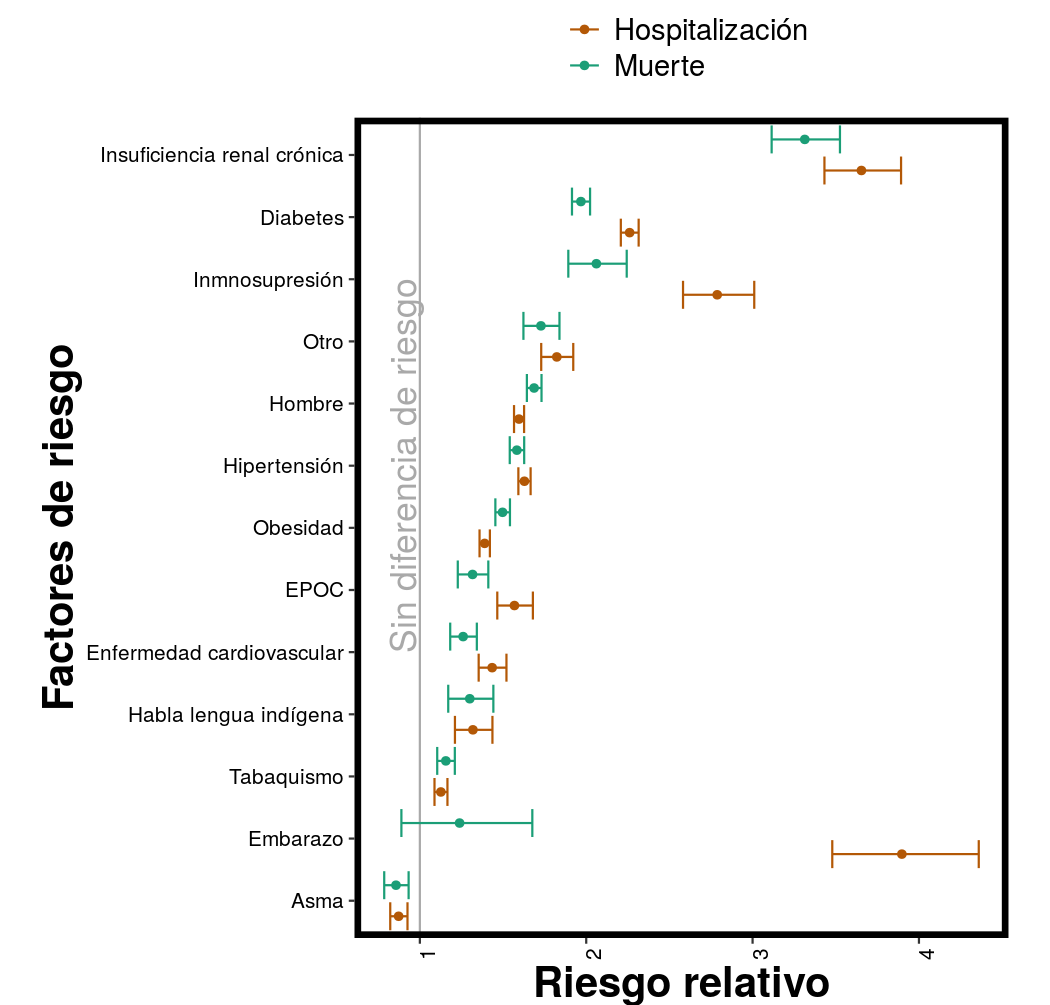
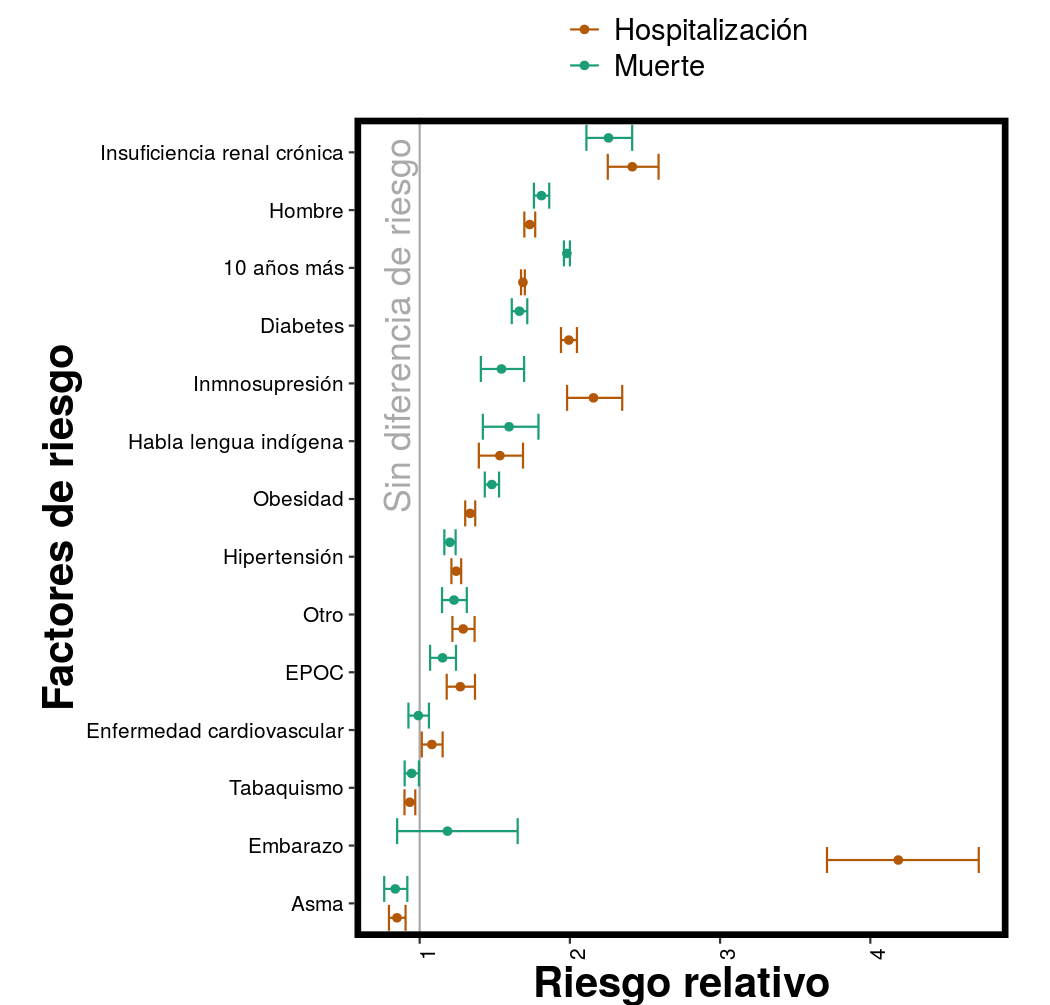
Actualizando riesgos relativos

diff --git a/clinicos/index.html b/clinicos/index.html
@@ -334,8 +334,9 @@
           <div class="col-12 col-md-6 my-auto my-auto">
             <h3>¿Quién está en riesgo?</h3>
             <p class="lead">
-              <p><strong>Todos estamos en riesgo</strong>. Para el 6 de mayo, 123 (14%) de las 857 mujeres, y 857 (25%) de los 1847 hombres que fallecieron por COVID-19 no tenían ninguno de los factores de riesgo reportados. Sin embargo, ciertos factores pueden hacer más probable que una persona contagiada desarrolle enfermedad grave.</p>
-<p>En México, podemos calcular el riesgo relativo de que pacientes con COVID-19 tengan que ser hospitalizados o terminen falleciendo por COVID-19. Una vez que descontamos el efecto de la edad, la insuficiencia renal crónica, diabetes, inmunosupresión, obesidad y enfermedad pulmonar obstructiva crónica (EPOC) son los mayores factores de riesgo. El asma no incrementa el riesgo, lo cual puede parecer raro pero hasta el momento <a href="https://www.aaaai.org/conditions-and-treatments/library/asthma-library/covid-asthma" target="_blank">no hay</a> <a href="https://time.com/5802423/coronvirus-asthma-high-risk/" target="_blank">evidencia</a> de que gente con asma tenga un mayor riesgo que los demás. Simplemente <strong>todos debemos extremar precauciones</strong>.</p>
+              <p><b>Todos estamos en riesgo</b>. Para el 10 de julio, se ha confirmado el fallecimiento por COVID-19 de 2387 mujeres (edad media de 60 años) y 6410 hombres (edad media de 59 años) para quienes no se reporta ningún otro factor de riesgo. Esto representa el 26% de los fallecimientos confirmados. Es posible que algunas de estas personas hayan tenido comorbilidades no detectadas, pero de todas formas estos números indican que el COVID-19 es una enfermedad peligrosa para todos.</p>
+<p>Sin embargo, hay condiciones demográficas, socioeconómicos y médicas que aumentan el riesgo para una persona con COVID-19. La gráfica muestra el riesgo relativo asociado con varios factores en México. Los resultados son similares a los de otros países: mayor edad, ser hombre, ser indígena, o padecer algunas enfermedades crónicas aumentan el riesgo por COVID-19.</p>
+<p>Los detalles para calcular estos estimados están <a href="https://github.com/coronamex/visualizando/blob/master/clinicos/riesgos_relativos.r" target="_blank">aquí</a>.</p>
             </p>
               
           </div>

diff --git a/etiquetas/clínicos/index.html b/etiquetas/clínicos/index.html
@@ -334,8 +334,9 @@
           <div class="col-12 col-md-6 my-auto my-auto">
             <h3>¿Quién está en riesgo?</h3>
             <p class="lead">
-              <p><strong>Todos estamos en riesgo</strong>. Para el 6 de mayo, 123 (14%) de las 857 mujeres, y 857 (25%) de los 1847 hombres que fallecieron por COVID-19 no tenían ninguno de los factores de riesgo reportados. Sin embargo, ciertos factores pueden hacer más probable que una persona contagiada desarrolle enfermedad grave.</p>
-<p>En México, podemos calcular el riesgo relativo de que pacientes con COVID-19 tengan que ser hospitalizados o terminen falleciendo por COVID-19. Una vez que descontamos el efecto de la edad, la insuficiencia renal crónica, diabetes, inmunosupresión, obesidad y enfermedad pulmonar obstructiva crónica (EPOC) son los mayores factores de riesgo. El asma no incrementa el riesgo, lo cual puede parecer raro pero hasta el momento <a href="https://www.aaaai.org/conditions-and-treatments/library/asthma-library/covid-asthma" target="_blank">no hay</a> <a href="https://time.com/5802423/coronvirus-asthma-high-risk/" target="_blank">evidencia</a> de que gente con asma tenga un mayor riesgo que los demás. Simplemente <strong>todos debemos extremar precauciones</strong>.</p>
+              <p><b>Todos estamos en riesgo</b>. Para el 10 de julio, se ha confirmado el fallecimiento por COVID-19 de 2387 mujeres (edad media de 60 años) y 6410 hombres (edad media de 59 años) para quienes no se reporta ningún otro factor de riesgo. Esto representa el 26% de los fallecimientos confirmados. Es posible que algunas de estas personas hayan tenido comorbilidades no detectadas, pero de todas formas estos números indican que el COVID-19 es una enfermedad peligrosa para todos.</p>
+<p>Sin embargo, hay condiciones demográficas, socioeconómicos y médicas que aumentan el riesgo para una persona con COVID-19. La gráfica muestra el riesgo relativo asociado con varios factores en México. Los resultados son similares a los de otros países: mayor edad, ser hombre, ser indígena, o padecer algunas enfermedades crónicas aumentan el riesgo por COVID-19.</p>
+<p>Los detalles para calcular estos estimados están <a href="https://github.com/coronamex/visualizando/blob/master/clinicos/riesgos_relativos.r" target="_blank">aquí</a>.</p>
             </p>
               
           </div>

diff --git a/etiquetas/estimado/index.html b/etiquetas/estimado/index.html
@@ -334,8 +334,9 @@
           <div class="col-12 col-md-6 my-auto my-auto">
             <h3>¿Quién está en riesgo?</h3>
             <p class="lead">
-              <p><strong>Todos estamos en riesgo</strong>. Para el 6 de mayo, 123 (14%) de las 857 mujeres, y 857 (25%) de los 1847 hombres que fallecieron por COVID-19 no tenían ninguno de los factores de riesgo reportados. Sin embargo, ciertos factores pueden hacer más probable que una persona contagiada desarrolle enfermedad grave.</p>
-<p>En México, podemos calcular el riesgo relativo de que pacientes con COVID-19 tengan que ser hospitalizados o terminen falleciendo por COVID-19. Una vez que descontamos el efecto de la edad, la insuficiencia renal crónica, diabetes, inmunosupresión, obesidad y enfermedad pulmonar obstructiva crónica (EPOC) son los mayores factores de riesgo. El asma no incrementa el riesgo, lo cual puede parecer raro pero hasta el momento <a href="https://www.aaaai.org/conditions-and-treatments/library/asthma-library/covid-asthma" target="_blank">no hay</a> <a href="https://time.com/5802423/coronvirus-asthma-high-risk/" target="_blank">evidencia</a> de que gente con asma tenga un mayor riesgo que los demás. Simplemente <strong>todos debemos extremar precauciones</strong>.</p>
+              <p><b>Todos estamos en riesgo</b>. Para el 10 de julio, se ha confirmado el fallecimiento por COVID-19 de 2387 mujeres (edad media de 60 años) y 6410 hombres (edad media de 59 años) para quienes no se reporta ningún otro factor de riesgo. Esto representa el 26% de los fallecimientos confirmados. Es posible que algunas de estas personas hayan tenido comorbilidades no detectadas, pero de todas formas estos números indican que el COVID-19 es una enfermedad peligrosa para todos.</p>
+<p>Sin embargo, hay condiciones demográficas, socioeconómicos y médicas que aumentan el riesgo para una persona con COVID-19. La gráfica muestra el riesgo relativo asociado con varios factores en México. Los resultados son similares a los de otros países: mayor edad, ser hombre, ser indígena, o padecer algunas enfermedades crónicas aumentan el riesgo por COVID-19.</p>
+<p>Los detalles para calcular estos estimados están <a href="https://github.com/coronamex/visualizando/blob/master/clinicos/riesgos_relativos.r" target="_blank">aquí</a>.</p>
             </p>
               
           </div>

diff --git a/etiquetas/muertes/index.html b/etiquetas/muertes/index.html
@@ -357,8 +357,9 @@
           <div class="col-12 col-md-6 my-auto my-auto">
             <h3>¿Quién está en riesgo?</h3>
             <p class="lead">
-              <p><strong>Todos estamos en riesgo</strong>. Para el 6 de mayo, 123 (14%) de las 857 mujeres, y 857 (25%) de los 1847 hombres que fallecieron por COVID-19 no tenían ninguno de los factores de riesgo reportados. Sin embargo, ciertos factores pueden hacer más probable que una persona contagiada desarrolle enfermedad grave.</p>
-<p>En México, podemos calcular el riesgo relativo de que pacientes con COVID-19 tengan que ser hospitalizados o terminen falleciendo por COVID-19. Una vez que descontamos el efecto de la edad, la insuficiencia renal crónica, diabetes, inmunosupresión, obesidad y enfermedad pulmonar obstructiva crónica (EPOC) son los mayores factores de riesgo. El asma no incrementa el riesgo, lo cual puede parecer raro pero hasta el momento <a href="https://www.aaaai.org/conditions-and-treatments/library/asthma-library/covid-asthma" target="_blank">no hay</a> <a href="https://time.com/5802423/coronvirus-asthma-high-risk/" target="_blank">evidencia</a> de que gente con asma tenga un mayor riesgo que los demás. Simplemente <strong>todos debemos extremar precauciones</strong>.</p>
+              <p><b>Todos estamos en riesgo</b>. Para el 10 de julio, se ha confirmado el fallecimiento por COVID-19 de 2387 mujeres (edad media de 60 años) y 6410 hombres (edad media de 59 años) para quienes no se reporta ningún otro factor de riesgo. Esto representa el 26% de los fallecimientos confirmados. Es posible que algunas de estas personas hayan tenido comorbilidades no detectadas, pero de todas formas estos números indican que el COVID-19 es una enfermedad peligrosa para todos.</p>
+<p>Sin embargo, hay condiciones demográficas, socioeconómicos y médicas que aumentan el riesgo para una persona con COVID-19. La gráfica muestra el riesgo relativo asociado con varios factores en México. Los resultados son similares a los de otros países: mayor edad, ser hombre, ser indígena, o padecer algunas enfermedades crónicas aumentan el riesgo por COVID-19.</p>
+<p>Los detalles para calcular estos estimados están <a href="https://github.com/coronamex/visualizando/blob/master/clinicos/riesgos_relativos.r" target="_blank">aquí</a>.</p>
             </p>
               
           </div>

diff --git a/etiquetas/nacional/index.html b/etiquetas/nacional/index.html
@@ -405,8 +405,9 @@
           <div class="col-12 col-md-6 my-auto my-auto">
             <h3>¿Quién está en riesgo?</h3>
             <p class="lead">
-              <p><strong>Todos estamos en riesgo</strong>. Para el 6 de mayo, 123 (14%) de las 857 mujeres, y 857 (25%) de los 1847 hombres que fallecieron por COVID-19 no tenían ninguno de los factores de riesgo reportados. Sin embargo, ciertos factores pueden hacer más probable que una persona contagiada desarrolle enfermedad grave.</p>
-<p>En México, podemos calcular el riesgo relativo de que pacientes con COVID-19 tengan que ser hospitalizados o terminen falleciendo por COVID-19. Una vez que descontamos el efecto de la edad, la insuficiencia renal crónica, diabetes, inmunosupresión, obesidad y enfermedad pulmonar obstructiva crónica (EPOC) son los mayores factores de riesgo. El asma no incrementa el riesgo, lo cual puede parecer raro pero hasta el momento <a href="https://www.aaaai.org/conditions-and-treatments/library/asthma-library/covid-asthma" target="_blank">no hay</a> <a href="https://time.com/5802423/coronvirus-asthma-high-risk/" target="_blank">evidencia</a> de que gente con asma tenga un mayor riesgo que los demás. Simplemente <strong>todos debemos extremar precauciones</strong>.</p>
+              <p><b>Todos estamos en riesgo</b>. Para el 10 de julio, se ha confirmado el fallecimiento por COVID-19 de 2387 mujeres (edad media de 60 años) y 6410 hombres (edad media de 59 años) para quienes no se reporta ningún otro factor de riesgo. Esto representa el 26% de los fallecimientos confirmados. Es posible que algunas de estas personas hayan tenido comorbilidades no detectadas, pero de todas formas estos números indican que el COVID-19 es una enfermedad peligrosa para todos.</p>
+<p>Sin embargo, hay condiciones demográficas, socioeconómicos y médicas que aumentan el riesgo para una persona con COVID-19. La gráfica muestra el riesgo relativo asociado con varios factores en México. Los resultados son similares a los de otros países: mayor edad, ser hombre, ser indígena, o padecer algunas enfermedades crónicas aumentan el riesgo por COVID-19.</p>
+<p>Los detalles para calcular estos estimados están <a href="https://github.com/coronamex/visualizando/blob/master/clinicos/riesgos_relativos.r" target="_blank">aquí</a>.</p>
             </p>
               
           </div>

diff --git a/secciones/clínicos/index.html b/secciones/clínicos/index.html
@@ -334,8 +334,9 @@
           <div class="col-12 col-md-6 my-auto my-auto">
             <h3>¿Quién está en riesgo?</h3>
             <p class="lead">
-              <p><strong>Todos estamos en riesgo</strong>. Para el 6 de mayo, 123 (14%) de las 857 mujeres, y 857 (25%) de los 1847 hombres que fallecieron por COVID-19 no tenían ninguno de los factores de riesgo reportados. Sin embargo, ciertos factores pueden hacer más probable que una persona contagiada desarrolle enfermedad grave.</p>
-<p>En México, podemos calcular el riesgo relativo de que pacientes con COVID-19 tengan que ser hospitalizados o terminen falleciendo por COVID-19. Una vez que descontamos el efecto de la edad, la insuficiencia renal crónica, diabetes, inmunosupresión, obesidad y enfermedad pulmonar obstructiva crónica (EPOC) son los mayores factores de riesgo. El asma no incrementa el riesgo, lo cual puede parecer raro pero hasta el momento <a href="https://www.aaaai.org/conditions-and-treatments/library/asthma-library/covid-asthma" target="_blank">no hay</a> <a href="https://time.com/5802423/coronvirus-asthma-high-risk/" target="_blank">evidencia</a> de que gente con asma tenga un mayor riesgo que los demás. Simplemente <strong>todos debemos extremar precauciones</strong>.</p>
+              <p><b>Todos estamos en riesgo</b>. Para el 10 de julio, se ha confirmado el fallecimiento por COVID-19 de 2387 mujeres (edad media de 60 años) y 6410 hombres (edad media de 59 años) para quienes no se reporta ningún otro factor de riesgo. Esto representa el 26% de los fallecimientos confirmados. Es posible que algunas de estas personas hayan tenido comorbilidades no detectadas, pero de todas formas estos números indican que el COVID-19 es una enfermedad peligrosa para todos.</p>
+<p>Sin embargo, hay condiciones demográficas, socioeconómicos y médicas que aumentan el riesgo para una persona con COVID-19. La gráfica muestra el riesgo relativo asociado con varios factores en México. Los resultados son similares a los de otros países: mayor edad, ser hombre, ser indígena, o padecer algunas enfermedades crónicas aumentan el riesgo por COVID-19.</p>
+<p>Los detalles para calcular estos estimados están <a href="https://github.com/coronamex/visualizando/blob/master/clinicos/riesgos_relativos.r" target="_blank">aquí</a>.</p>
             </p>
               
           </div>

diff --git a/clinicos/riesgos_relativos/index.html b/clinicos/riesgos_relativos/index.html
@@ -327,8 +327,9 @@
         <div class="col-12 col-md-6 my-auto my-auto">
           <h2>¿Quién está en riesgo?</h2>
           <p class="lead">
-            <p><strong>Todos estamos en riesgo</strong>. Para el 6 de mayo, 123 (14%) de las 857 mujeres, y 857 (25%) de los 1847 hombres que fallecieron por COVID-19 no tenían ninguno de los factores de riesgo reportados. Sin embargo, ciertos factores pueden hacer más probable que una persona contagiada desarrolle enfermedad grave.</p>
-<p>En México, podemos calcular el riesgo relativo de que pacientes con COVID-19 tengan que ser hospitalizados o terminen falleciendo por COVID-19. Una vez que descontamos el efecto de la edad, la insuficiencia renal crónica, diabetes, inmunosupresión, obesidad y enfermedad pulmonar obstructiva crónica (EPOC) son los mayores factores de riesgo. El asma no incrementa el riesgo, lo cual puede parecer raro pero hasta el momento <a href="https://www.aaaai.org/conditions-and-treatments/library/asthma-library/covid-asthma" target="_blank">no hay</a> <a href="https://time.com/5802423/coronvirus-asthma-high-risk/" target="_blank">evidencia</a> de que gente con asma tenga un mayor riesgo que los demás. Simplemente <strong>todos debemos extremar precauciones</strong>.</p>
+            <p><b>Todos estamos en riesgo</b>. Para el 10 de julio, se ha confirmado el fallecimiento por COVID-19 de 2387 mujeres (edad media de 60 años) y 6410 hombres (edad media de 59 años) para quienes no se reporta ningún otro factor de riesgo. Esto representa el 26% de los fallecimientos confirmados. Es posible que algunas de estas personas hayan tenido comorbilidades no detectadas, pero de todas formas estos números indican que el COVID-19 es una enfermedad peligrosa para todos.</p>
+<p>Sin embargo, hay condiciones demográficas, socioeconómicos y médicas que aumentan el riesgo para una persona con COVID-19. La gráfica muestra el riesgo relativo asociado con varios factores en México. Los resultados son similares a los de otros países: mayor edad, ser hombre, ser indígena, o padecer algunas enfermedades crónicas aumentan el riesgo por COVID-19.</p>
+<p>Los detalles para calcular estos estimados están <a href="https://github.com/coronamex/visualizando/blob/master/clinicos/riesgos_relativos.r" target="_blank">aquí</a>.</p>
           </p>
             
         </div>
